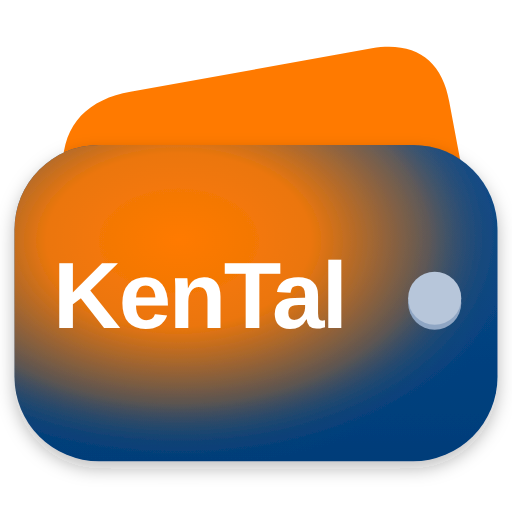
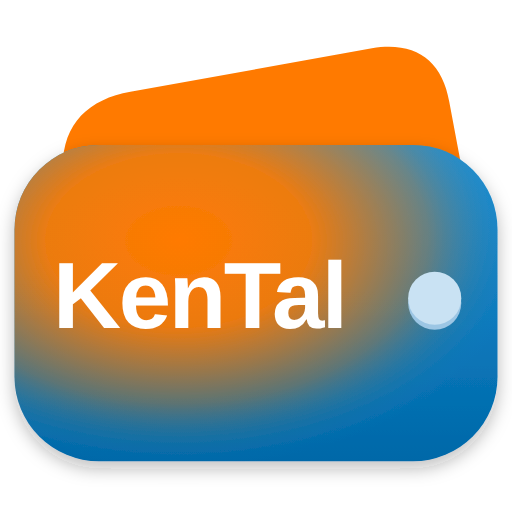
Ikon KenTal: dompet biru laut
Claude-Session: https://claude.ai/code/session_015Ebc1KBKGqm5xwmaobh5dd

Changed region(s): [[0.0, 0.2812, 1.0, 0.9062]]

diff --git a/index.html b/index.html
@@ -5,12 +5,12 @@
   <meta name="viewport" content="width=device-width, initial-scale=1, viewport-fit=cover">
   <meta name="theme-color" content="#121212">
   <meta name="robots" content="noindex, nofollow">
-  <link rel="icon" type="image/png" sizes="32x32" href="img/kental-32.png?v=7">
-  <link rel="icon" type="image/png" sizes="48x48" href="img/kental-48.png?v=7">
-  <link rel="icon" type="image/png" sizes="192x192" href="img/kental-192.png?v=7">
-  <link rel="icon" type="image/svg+xml" href="img/icon.svg?v=7">
-  <link rel="apple-touch-icon" href="img/kental-180.png?v=7">
-  <link rel="manifest" href="manifest.webmanifest?v=7">
+  <link rel="icon" type="image/png" sizes="32x32" href="img/kental-32.png?v=8">
+  <link rel="icon" type="image/png" sizes="48x48" href="img/kental-48.png?v=8">
+  <link rel="icon" type="image/png" sizes="192x192" href="img/kental-192.png?v=8">
+  <link rel="icon" type="image/svg+xml" href="img/icon.svg?v=8">
+  <link rel="apple-touch-icon" href="img/kental-180.png?v=8">
+  <link rel="manifest" href="manifest.webmanifest?v=8">
   <title>Keuangan Digital</title>
   <link rel="preconnect" href="https://fonts.googleapis.com">
   <link rel="preconnect" href="https://fonts.gstatic.com" crossorigin>
@@ -36,7 +36,7 @@
     <!-- ═════════ SIDEBAR (desktop/tablet) ═════════ -->
     <aside class="sidebar" id="sidebar" aria-label="Navigasi utama">
       <div class="brand">
-        <img class="brand-logo" src="img/icon.svg?v=7" alt="KenTal">
+        <img class="brand-logo" src="img/icon.svg?v=8" alt="KenTal">
         <div class="brand-text">
           <strong>Keuangan Digital</strong>
           <small>PERSONAL FINANCE</small>
@@ -143,7 +143,7 @@
   <!-- LAYAR MASUK — menutupi aplikasi sampai login berhasil -->
   <div class="auth-screen" id="authScreen" hidden>
     <div class="auth-card" role="dialog" aria-modal="true" aria-labelledby="authTitle">
-      <img class="brand-logo" src="img/icon.svg?v=7" alt="KenTal">
+      <img class="brand-logo" src="img/icon.svg?v=8" alt="KenTal">
       <h1 id="authTitle">Keuangan Digital</h1>
       <p id="authSub">Masuk untuk melanjutkan</p>
       <div class="auth-msg" id="authMsg" hidden></div>
